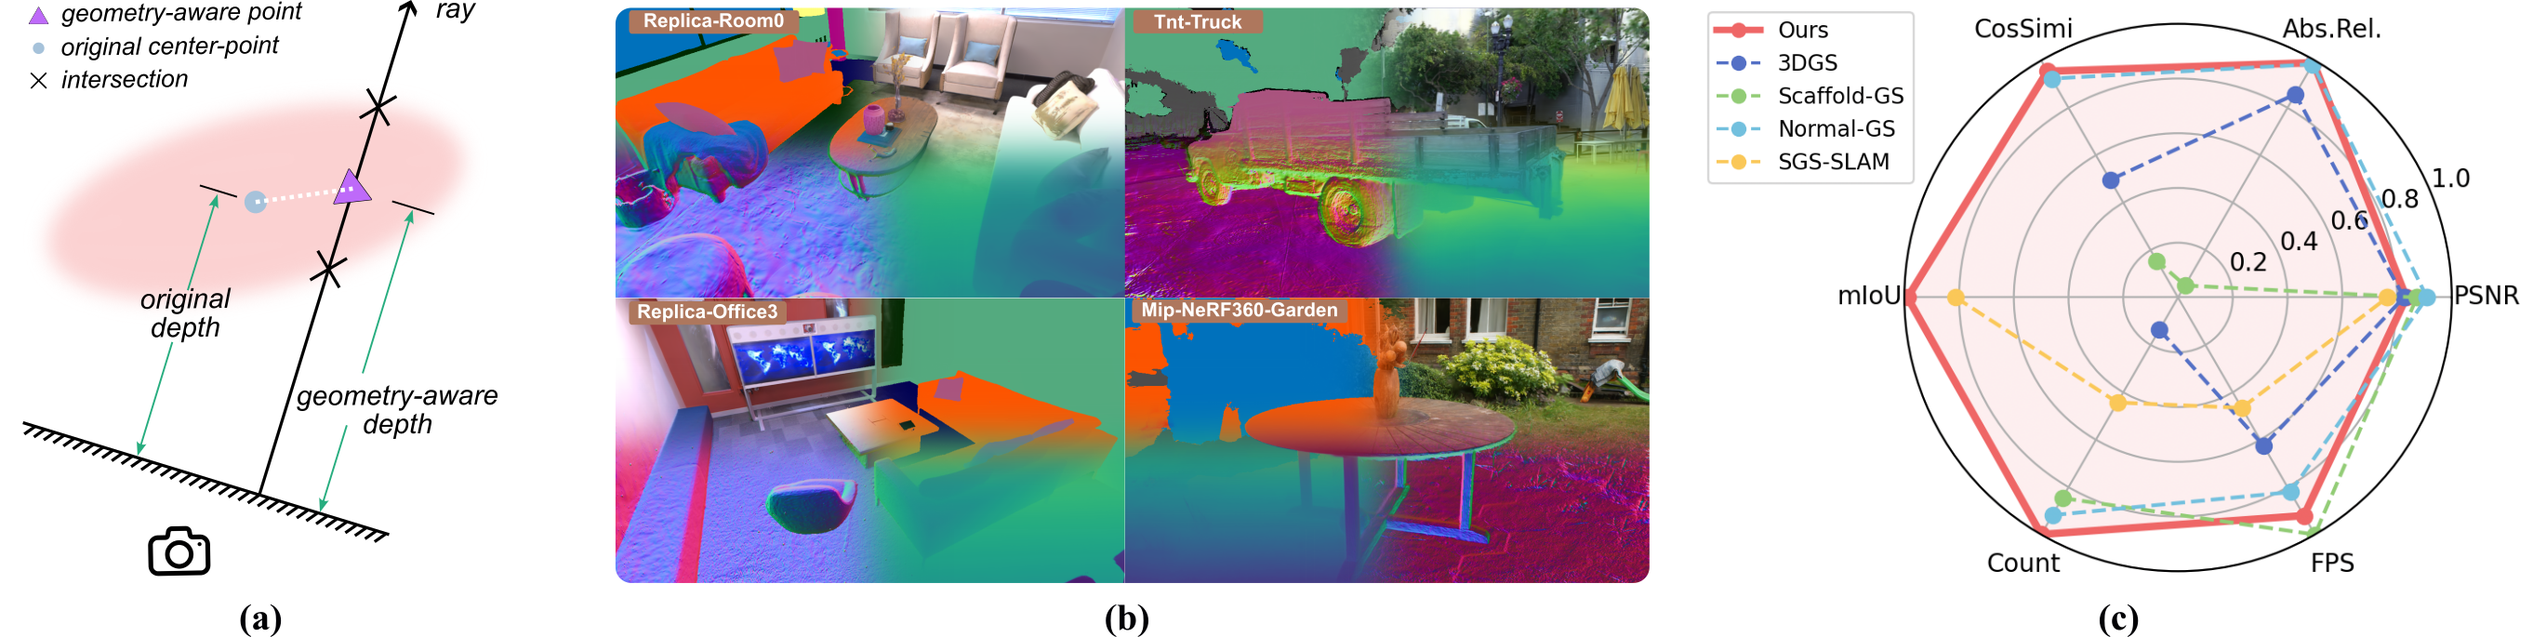
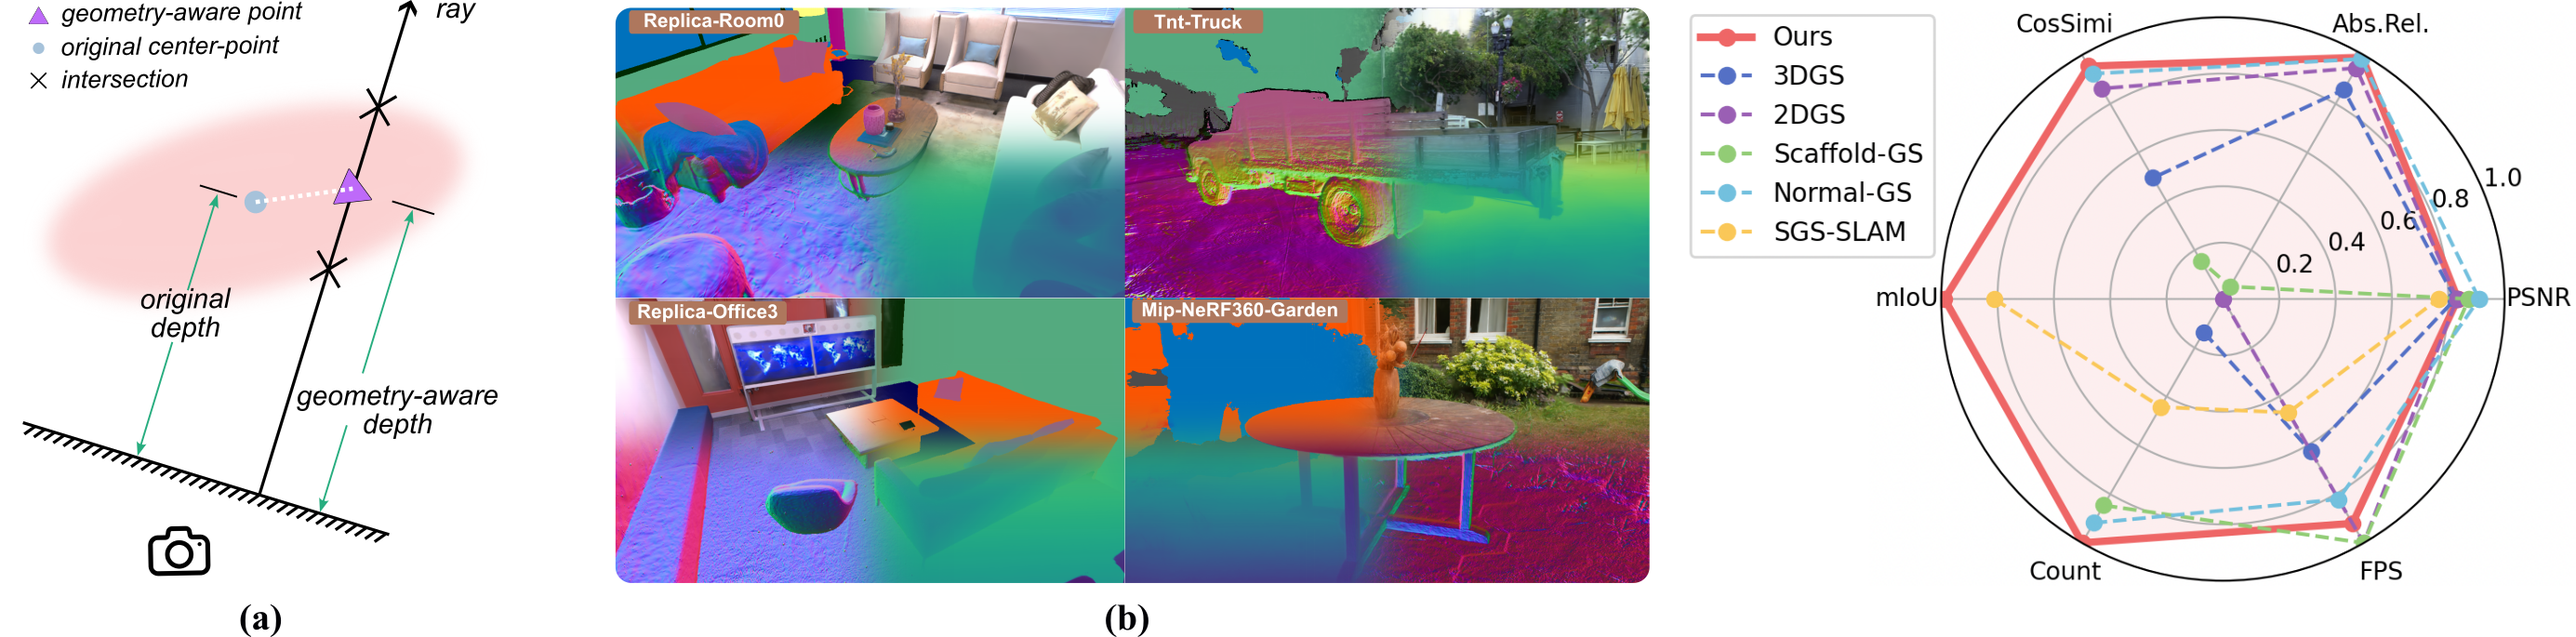
add 2dgs

diff --git a/utils/image_utils.py b/utils/image_utils.py
@@ -49,7 +49,6 @@ def vis_normal(normal_map_tensor):
         raise ValueError(
             f"Input tensor must have shape 3 x h x w. {normal_map_tensor.shape}"
         )
-
     # Detach the tensor and convert it to a numpy array
     normal_map_np = normal_map_tensor.detach().cpu().numpy()
 

diff --git a/scene/cameras.py b/scene/cameras.py
@@ -242,6 +242,7 @@ class Camera(nn.Module):
         self.FoVx = FoVx
         self.FoVy = FoVy
         self.image_name = image_name
+        self.image_path = image_path
 
         try:
             self.data_device = torch.device(data_device)

diff --git a/README.md b/README.md
@@ -146,5 +146,5 @@ Thanks for [Scaffold-GS](https://github.com/city-super/Scaffold-GS), [Normal-GS]
 Please follow the LICENSE of [3D-GS](https://github.com/graphdeco-inria/gaussian-splatting).
 
 
-## Cantact
+## Contact
 For any technical issues, please feel free to contact yxie827@connect.hkust-gz.edu.cn.
